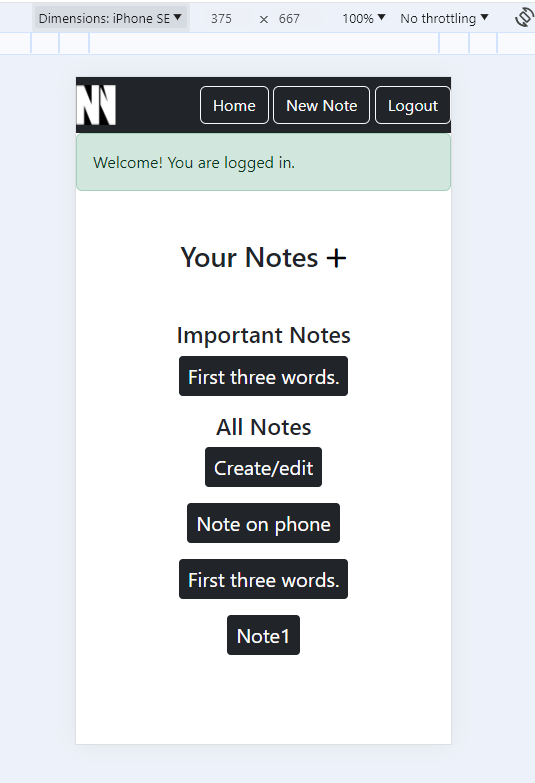
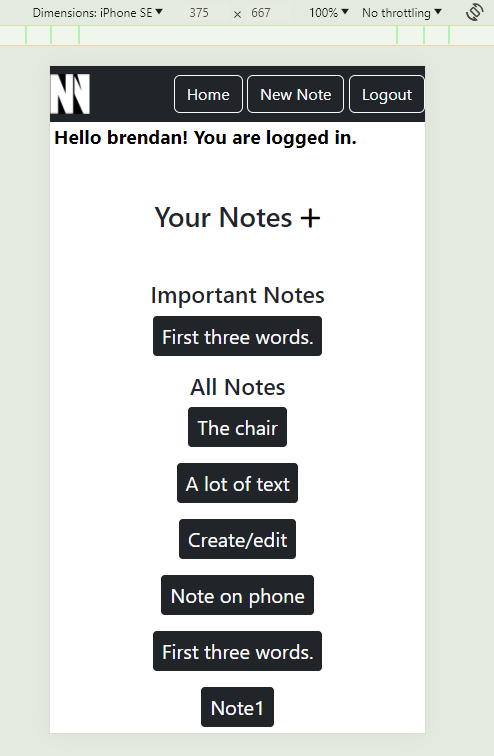
fix staticfiles

diff --git a/staticfiles/templates/base.html b/staticfiles/templates/base.html
@@ -22,8 +22,6 @@
 
         <div class="ms-auto">
             {% if user.is_authenticated %}
-            <!-- If user is logged in display their name-->
-            <span class="users-name">{{ request.user.username }}</span>
             <a href="{% url 'notes.list' %}" class="btn btn-outline-light">Home</a>
             <a href="{% url 'notes.new' %}" class="btn btn-outline-light">New Note</a>
             <form id="logout-form" method="post" action="{% url 'logout' %}" style="display:none;">
@@ -39,9 +37,13 @@
         </div>
     </nav>
 
+    {% if user.is_authenticated %}
+    <!-- If user is logged in display their name-->
+    <span class="users-name">Hello {{ request.user.username }}! You are logged in.</span>
+    {% endif %}
     <!-- Success messages -->
     {% if messages %}
-    <!-- Checks if messages contains anything ie if user has just logged in, signed up, created note, edited note or deleted note -->
+    <!-- Checks if messages contains anything ie if user has just signed up, created note, edited note or deleted note -->
     <div id="messages">
         {% for message in messages %}
         <div class="alert alert-{{ message.tags }}">

diff --git a/staticfiles/css/style.css b/staticfiles/css/style.css
@@ -1,4 +1,6 @@
 .users-name {
-    color: white;
+    color: black;
     font-size: larger;
+    font-weight: bolder;
+    margin-left: 1%;
 }
